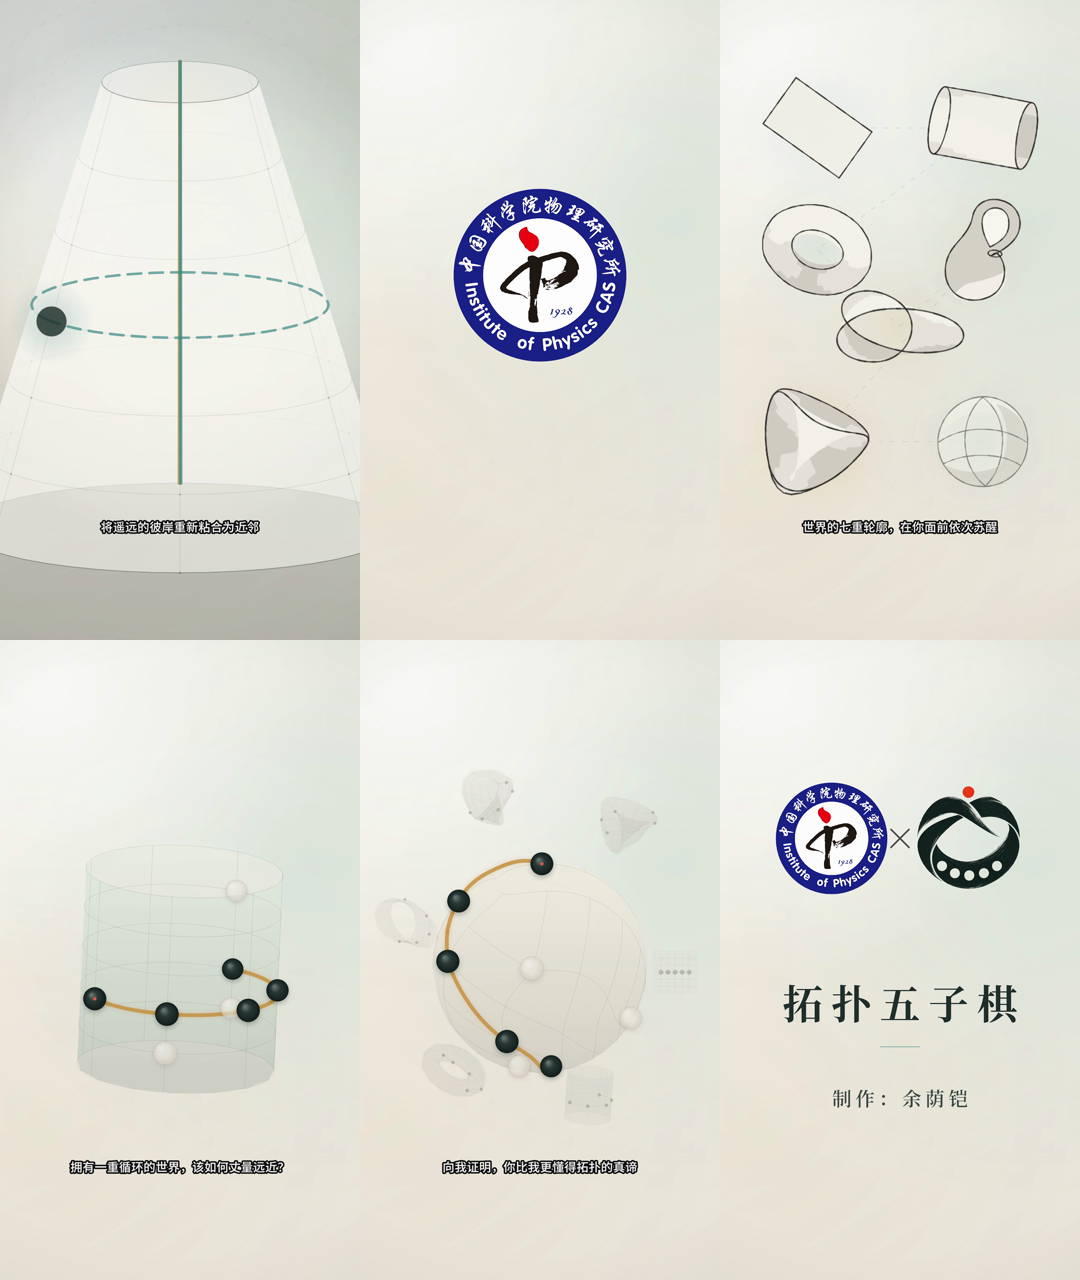
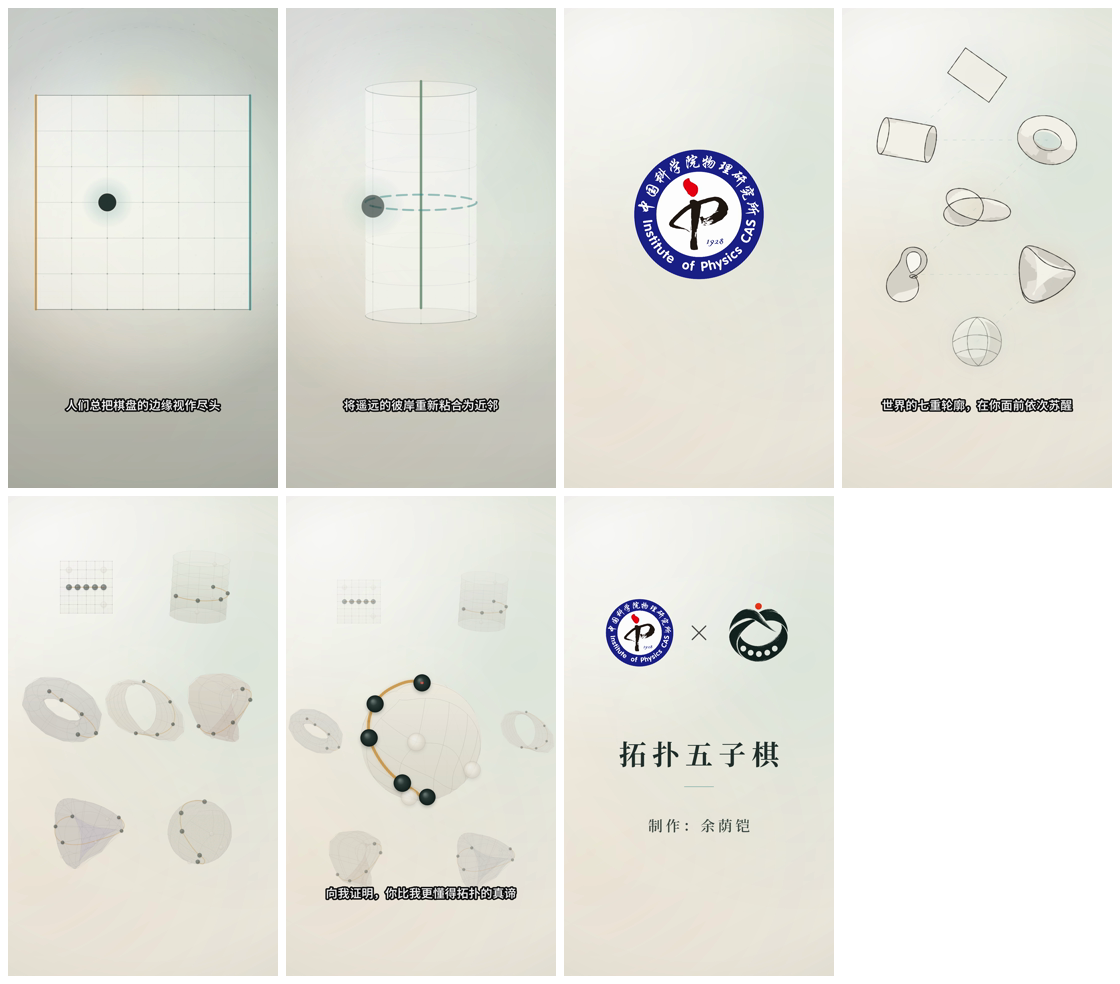
fix: refine portrait PV layouts and add covers

diff --git a/video/chapter-teaser/src/compositor.js b/video/chapter-teaser/src/compositor.js
@@ -953,6 +953,28 @@
   }
 
   function introBoardPoint(u, v, fold, width, height, cameraPush) {
+    if (height > width) {
+      // Portrait uses a physically legible construction: an exact square grid in
+      // the parameter plane and a constant-radius cylinder after identification.
+      // Orthographic projection keeps the cylinder walls parallel instead of
+      // accidentally turning the surface into a frustum.
+      var portraitSpan = width * mix(0.78, 0.84, cameraPush);
+      var portraitCenterX = width * 0.5;
+      var portraitCenterY = height * (height / width > 1.55 ? 0.405 : 0.42);
+      var flatX = (u - 0.5) * portraitSpan;
+      var flatY = (v - 0.5) * portraitSpan;
+      var portraitTheta = (u - 0.5) * TAU;
+      var cylinderRadius = portraitSpan * 0.245;
+      var cylinderX = Math.sin(portraitTheta) * cylinderRadius;
+      var cylinderY = flatY + Math.cos(portraitTheta) * cylinderRadius * 0.14;
+      return {
+        x: portraitCenterX + mix(flatX, cylinderX, fold),
+        y: portraitCenterY + mix(flatY, cylinderY, fold),
+        depth: Math.cos(portraitTheta) * fold,
+        u: u,
+        v: v
+      };
+    }
     var horizonWidth = width * 0.48;
     var foregroundWidth = width * 1.34;
     var rowWidth = mix(horizonWidth, foregroundWidth, v);
@@ -1578,8 +1600,8 @@
     var height = composition.height;
     var tall = height / width > 1.55;
     var positions = tall
-      ? [[0.27, 0.20], [0.73, 0.20], [0.27, 0.39], [0.50, 0.51], [0.73, 0.39], [0.27, 0.69], [0.73, 0.69]]
-      : [[0.25, 0.19], [0.75, 0.19], [0.25, 0.43], [0.50, 0.53], [0.75, 0.43], [0.25, 0.76], [0.75, 0.76]];
+      ? [[0.50, 0.14], [0.24, 0.275], [0.76, 0.275], [0.50, 0.415], [0.24, 0.555], [0.76, 0.555], [0.50, 0.695]]
+      : [[0.50, 0.12], [0.24, 0.285], [0.76, 0.285], [0.50, 0.46], [0.24, 0.635], [0.76, 0.635], [0.50, 0.81]];
     var progress = frameInfo.progress;
     var lineReveal = smootherstep(0.03, 0.76, progress);
     ctx.save();
@@ -1605,7 +1627,8 @@
       var alpha = arrival * fade;
       var centerX = width * positions[index][0];
       var centerY = height * positions[index][1];
-      var size = width * (index === 3 ? 0.44 : 0.38) * mix(0.72, 1, arrival) * (1 + ignition * 0.055);
+      var size = width * (index === 3 ? (tall ? 0.31 : 0.29) : (tall ? 0.275 : 0.255))
+        * mix(0.72, 1, arrival) * (1 + ignition * 0.055);
       var illustration = composition.topologyIllustrations[model.chapter.id];
       ctx.save();
       var aura = ctx.createRadialGradient(centerX, centerY, 0, centerX, centerY, size * 0.64);
@@ -1628,9 +1651,9 @@
     var height = composition.height;
     var tall = height / width > 1.55;
     var positions = tall
-      ? [[0.27, 0.22], [0.73, 0.22], [0.27, 0.43], [0.73, 0.43], [0.27, 0.65], [0.73, 0.65], [0.50, 0.53]]
-      : [[0.25, 0.19], [0.75, 0.19], [0.25, 0.46], [0.75, 0.46], [0.25, 0.74], [0.75, 0.74], [0.50, 0.58]];
-    var baseSize = width * (tall ? 0.49 : 0.44);
+      ? [[0.29, 0.19], [0.71, 0.19], [0.20, 0.445], [0.50, 0.445], [0.80, 0.445], [0.29, 0.70], [0.71, 0.70]]
+      : [[0.29, 0.17], [0.71, 0.17], [0.20, 0.47], [0.50, 0.47], [0.80, 0.47], [0.29, 0.77], [0.71, 0.77]];
+    var baseSize = width * (tall ? 0.41 : 0.39);
     composition.chapters.forEach(function drawWorld(model, index) {
       var arrival = smootherstep(index * 0.075, index * 0.075 + 0.22, frameInfo.progress);
       var fade = 1 - smoothstep(0.88, 1, frameInfo.progress);
@@ -1650,17 +1673,30 @@
       height: width * (tall ? 1.10 : 1.00),
       portrait: true
     };
-    var orientation = makeOrientation(sphere, frameInfo.frameIndex, frameInfo.progress, mix(1.16, 0.86, frameInfo.progress));
+    var orientation = makeOrientation(sphere, frameInfo.frameIndex, frameInfo.progress, mix(0.94, 0.62, frameInfo.progress));
     orientation.y += frameInfo.progress * 0.42;
     var opacity = smoothstep(0.02, 0.17, frameInfo.progress) * (1 - smoothstep(0.91, 1, frameInfo.progress));
     drawSurface(ctx, sphere, viewport, 1, orientation, opacity, composition.quality, false);
     drawPath(ctx, sphere, viewport, 1, orientation, smoothstep(0.16, 0.70, frameInfo.progress), composition.palette, opacity);
     if (frameInfo.progress > 0.48) {
       var orbitOpacity = smoothstep(0.48, 0.78, frameInfo.progress) * (1 - smoothstep(0.92, 1, frameInfo.progress));
-      var orbitY = height * (tall ? 0.48 : 0.47);
+      var satellitePositions = tall
+        ? [[0.27, 0.22], [0.73, 0.22], [0.11, 0.49], [0.89, 0.49], [0.27, 0.76], [0.73, 0.76]]
+        : [[0.27, 0.20], [0.73, 0.20], [0.10, 0.49], [0.90, 0.49], [0.27, 0.78], [0.73, 0.78]];
       composition.chapters.slice(0, 6).forEach(function drawOrbiting(model, index) {
-        var angle = index / 6 * TAU + frameInfo.progress * 0.22;
-        drawMiniature(ctx, composition, model, width * 0.5 + Math.cos(angle) * width * 0.38, orbitY + Math.sin(angle) * width * 0.44, width * 0.25, frameInfo, index, orbitOpacity * 0.25);
+        var position = satellitePositions[index];
+        var satelliteSize = width * (index === 2 || index === 3 ? 0.28 : (tall ? 0.34 : 0.32));
+        drawMiniature(
+          ctx,
+          composition,
+          model,
+          width * position[0],
+          height * position[1],
+          satelliteSize,
+          frameInfo,
+          index,
+          orbitOpacity * 0.40
+        );
       });
     }
   }
@@ -1670,11 +1706,11 @@
     var height = composition.height;
     var tall = height / width > 1.55;
     var alpha = smootherstep(0.04, 0.28, frameInfo.progress);
-    var logoCenterY = height * (tall ? 0.31 : 0.28);
-    var institutionDiameter = width * (tall ? 0.31 : 0.29);
-    var gameLogoBox = width * (tall ? 0.38 : 0.35);
-    drawCircularLogo(ctx, composition.logos.institution, width * 0.31, logoCenterY, institutionDiameter, alpha);
-    drawContainedImage(ctx, composition.logos.game, width * 0.69, logoCenterY, gameLogoBox, gameLogoBox, alpha);
+    var logoCenterY = height * (tall ? 0.285 : 0.265);
+    var institutionDiameter = width * (tall ? 0.25 : 0.235);
+    var gameLogoBox = width * (tall ? 0.29 : 0.275);
+    drawCircularLogo(ctx, composition.logos.institution, width * 0.28, logoCenterY, institutionDiameter, alpha);
+    drawContainedImage(ctx, composition.logos.game, width * 0.72, logoCenterY, gameLogoBox, gameLogoBox, alpha);
     ctx.save();
     var markX = width * 0.50;
     var markRadius = width * 0.025;
@@ -1689,14 +1725,14 @@
     ctx.stroke();
     ctx.textAlign = "center";
     ctx.textBaseline = "middle";
-    ctx.font = "700 " + Math.round(width * 0.112) + "px " + FONT_FAMILY;
+    ctx.font = "700 " + Math.round(width * 0.102) + "px " + FONT_FAMILY;
     ctx.fillStyle = rgba(GAME_PALETTE.ink, alpha);
-    drawTrackedText(ctx, composition.story.endCard.gameTitle, width * 0.5, height * (tall ? 0.565 : 0.57), width * 0.023);
+    drawTrackedText(ctx, composition.story.endCard.gameTitle, width * 0.5, height * (tall ? 0.535 : 0.54), width * 0.021);
     ctx.fillStyle = rgba(GAME_PALETTE.connection, alpha * 0.62);
-    ctx.fillRect(width * 0.5 - width * 0.055, height * (tall ? 0.635 : 0.65), width * 0.11, Math.max(2, width * 0.0022));
+    ctx.fillRect(width * 0.5 - width * 0.055, height * (tall ? 0.605 : 0.62), width * 0.11, Math.max(2, width * 0.0022));
     ctx.font = "600 " + Math.round(width * 0.054) + "px " + FONT_FAMILY;
     ctx.fillStyle = rgba(GAME_PALETTE.ink, alpha * 0.88);
-    drawTrackedText(ctx, composition.story.endCard.producer, width * 0.5, height * (tall ? 0.715 : 0.75), width * 0.011);
+    drawTrackedText(ctx, composition.story.endCard.producer, width * 0.5, height * (tall ? 0.685 : 0.71), width * 0.011);
     ctx.restore();
   }
 

diff --git a/tests/chapter-teaser-visual.test.js b/tests/chapter-teaser-visual.test.js
@@ -251,6 +251,27 @@ test("the opening trajectory and stone remain fully visible on their shared para
   assert.match(fillBody, /patchIsFront !== front/);
 });
 
+test("portrait opening preserves square cells and closes into a constant-radius cylinder", () => {
+  const point = Compositor.internals.introBoardPoint;
+  const width = 1080;
+  const height = 1920;
+  const flatOrigin = point(0, 0, 0, width, height, 0.5);
+  const flatRight = point(1 / 6, 0, 0, width, height, 0.5);
+  const flatDown = point(0, 1 / 6, 0, width, height, 0.5);
+  assert.ok(Math.abs((flatRight.x - flatOrigin.x) - (flatDown.y - flatOrigin.y)) < 1e-8);
+
+  const seamStart = point(0, 0.5, 1, width, height, 1);
+  const seamEnd = point(1, 0.5, 1, width, height, 1);
+  assert.ok(Math.abs(seamStart.x - seamEnd.x) < 1e-8);
+  assert.ok(Math.abs(seamStart.y - seamEnd.y) < 1e-8);
+
+  const topLeft = point(0.25, 0, 1, width, height, 1);
+  const topRight = point(0.75, 0, 1, width, height, 1);
+  const bottomLeft = point(0.25, 1, 1, width, height, 1);
+  const bottomRight = point(0.75, 1, 1, width, height, 1);
+  assert.ok(Math.abs(Math.abs(topRight.x - topLeft.x) - Math.abs(bottomRight.x - bottomLeft.x)) < 1e-8);
+});
+
 test("shared stones safely skip the subpixel entrance state used by full-frame playback", () => {
   const canvas = createCanvas(64, 64);
   const context = canvas.getContext("2d", { alpha: false });
@@ -431,6 +452,7 @@ test("portrait social exports render native portrait scenes from the shared game
   assert.match(source, /app\/assets\/topology\.js/);
   assert.match(source, /subtitles=filename=/);
   assert.match(source, /layout: "native portrait scene composition"/);
+  assert.match(source, /subtitleFontSize: 68/);
   assert.doesNotMatch(source, /cleanVideo|sourceVideo|force_original_aspect_ratio|gblur|overlay=/);
 
   const compositorSource = fs.readFileSync(path.join(PV_ROOT, "src", "compositor.js"), "utf8");
@@ -438,6 +460,24 @@ test("portrait social exports render native portrait scenes from the shared game
   assert.match(compositorSource, /function drawPortraitChapterScene/);
   assert.match(compositorSource, /function drawPortraitIntroAwakening/);
   assert.match(compositorSource, /function drawPortraitEndCard/);
+});
+
+test("cover exports keep exact publishing copy and three requested safe aspect ratios", () => {
+  const copy = JSON.parse(fs.readFileSync(path.join(PV_ROOT, "publishing-copy.json"), "utf8"));
+  assert.equal(copy.title, "《拓扑五子棋》章节预告PV-「足迹回环」");
+  assert.deepEqual(copy.descriptionLines, [
+    "人们总把棋盘的边缘视作尽头。",
+    "可那些消失在边界上的道路并未中断。",
+    "僭越棋盘之人，循着隐藏的连接前行吧。",
+    "世界的七重轮廓，在你面前依次苏醒……",
+    "【Prologue.方庭】-【I.回廊】-【II.环游】",
+    "【III.扭带】-【IV.瓶界】-【V.双生】-【VI.归圆】"
+  ]);
+  const source = fs.readFileSync(path.join(PV_ROOT, "scripts", "render-covers.mjs"), "utf8");
+  assert.match(source, /id: "4x3"[\s\S]*width: 1600, height: 1200/);
+  assert.match(source, /id: "16x9"[\s\S]*width: 1920, height: 1080/);
+  assert.match(source, /id: "3x4"[\s\S]*width: 1080, height: 1440/);
+  assert.match(source, /large title only; no small cover copy/);
 });
 
 test("native portrait compositions render directly at both platform aspect ratios", () => {

diff --git a/docs/design/qa.md b/docs/design/qa.md
@@ -67,6 +67,9 @@
 | 章节预告 PV「七界足迹」最终 4K ProRes 母版抽帧 | [`artifacts/qa-chapter-teaser-pv-master-4k-final-contact-sheet.png`](../../artifacts/qa-chapter-teaser-pv-master-4k-final-contact-sheet.png) |
 | 章节预告 PV「七界足迹」抖音原生 9:16 构图 | [`artifacts/qa-chapter-teaser-pv-douyin-9x16-contact-sheet.png`](../../artifacts/qa-chapter-teaser-pv-douyin-9x16-contact-sheet.png) |
 | 章节预告 PV「七界足迹」小红书原生 3:4 构图 | [`artifacts/qa-chapter-teaser-pv-xiaohongshu-3x4-contact-sheet.png`](../../artifacts/qa-chapter-teaser-pv-xiaohongshu-3x4-contact-sheet.png) |
+| 章节预告 PV「足迹回环」4:3 封面 | [`artifacts/qa-chapter-teaser-pv-cover-4x3.png`](../../artifacts/qa-chapter-teaser-pv-cover-4x3.png) |
+| 章节预告 PV「足迹回环」16:9 封面 | [`artifacts/qa-chapter-teaser-pv-cover-16x9.png`](../../artifacts/qa-chapter-teaser-pv-cover-16x9.png) |
+| 章节预告 PV「足迹回环」3:4 封面 | [`artifacts/qa-chapter-teaser-pv-cover-3x4.png`](../../artifacts/qa-chapter-teaser-pv-cover-3x4.png) |
 
 较早截图只用于回归和问题溯源，不自动成为新设计的视觉真相。出现冲突时，以最新已确认实现、视觉设计语言和同状态实机/预览证据为准。
 
@@ -92,9 +95,11 @@
 
[1 lines of base64/hex data omitted]
 
-同日为 1080 × 1920 抖音版与 1080 × 1440 小红书版建立原生竖屏合成路径。两版不把横屏成片作为视觉输入，不使用横屏裁切、模糊补边、上下留白或画中画；共享合成器直接在目标竖屏画布上重绘片头透视棋盘、七种手绘拓扑苏醒、章节牌、实机棋盘到参数曲面的形变、七界群像、终章和双 Logo 片尾。9:16 采用更舒展的纵向星图与中上部主舞台，3:4 收紧段落间距并扩大有效画面占比；两版均保留金色五连、隐藏完成态边界缝线，并为无衬线字幕分别设置平台安全区。原始竖屏关键帧目录各保留 13 个相同时间点的布局状态；仓库联系表则直接从最终编码文件抽取 6 个代表状态，覆盖字幕、Logo 留白、流形苏醒、章节曲面、终章和片尾。
+同日为 1080 × 1920 抖音版与 1080 × 1440 小红书版建立原生竖屏合成路径。两版不把横屏成片作为视觉输入，不使用横屏裁切、模糊补边、上下留白或画中画；共享合成器直接在目标竖屏画布上重绘片头棋盘、七种手绘拓扑苏醒、章节牌、实机棋盘到参数曲面的形变、七界群像、终章和双 Logo 片尾。片头平面阶段使用严格等距参数网格，确保格子为正方形；粘合阶段使用固定半径、正交投影圆柱，避免长方形 / 梯形格和圆台错觉。七图鉴采用 1-2-1-2-1 错落构图，七流形群像采用 2-3-2 构图；终章改为缩小中心球并把六个环绕流形固定在上二、左右各一、下二六点，内侧轮廓之间保留可见负空间，不再重叠。双 Logo 缩小并拉开间距。两版字幕统一为 68 px 无衬线体、5.8 px 纯黑描边，并分别设置平台安全区。原始竖屏关键帧目录各保留 14 个相同时间点的布局状态；仓库联系表直接从最终编码文件抽取 7 个代表状态，覆盖正方形棋盘、圆柱粘合、字幕、机构 Logo、流形苏醒、七流形群像、无重叠终章和片尾。
 
[2 lines of base64/hex data omitted]
+
+同日生成 1600 × 1200（4:3）、1920 × 1080（16:9）和 1080 × 1440（3:4）三版确定性封面。三版复用暖纸背景、手绘球面网格、金色五连和青金边界语言，只保留大标题“拓扑五子棋”与“足迹回环”，不放小字，并把标题、棋子和主体图形限制在约 8% 内安全区。发布标题与简介按用户定稿逐字记录在 `video/chapter-teaser/publishing-copy.json`，交付目录同时生成可直接复制的 `publishing-copy.txt` 与封面校验清单。
 
 ## 新证据记录模板
 

diff --git a/video/chapter-teaser/README.md b/video/chapter-teaser/README.md
@@ -91,7 +91,17 @@ npm run pv:social:douyin -- --overwrite
 npm run pv:social:xiaohongshu -- --overwrite
 ```
 
-两个交付目录都包含成片、平台专用 ASS、内嵌字幕字体、SHA-256 校验和 `delivery-manifest.json`。平台字幕继续使用无衬线 `Topo Sans PV` 与纯黑描边，时间点完全继承已确认的 60 fps 整数帧时轴。
+两个交付目录都包含成片、平台专用 ASS、内嵌字幕字体、SHA-256 校验和 `delivery-manifest.json`。平台字幕使用 68 px 无衬线 `Topo Sans PV` 与 5.8 px 纯黑描边，允许长句自然换为两行，时间点完全继承已确认的 60 fps 整数帧时轴。片头竖屏参数面在闭合前保持等距正方形网格，闭合后使用恒定半径圆柱与正交投影；七图鉴采用单—双—单—双—单纵向节奏，七流形群像采用 2—3—2 编队，终章中心球与六个环绕流形分别留出独立空间，双 Logo 使用更宽松的联名锁定关系。
+
+## 投稿封面与文案
+
+投稿标题和简介的唯一来源为 [`publishing-copy.json`](publishing-copy.json)，导出时不会改写标点、章节名或顺序。三版封面复用暖纸背景、手绘球面与金色五连，只保留“拓扑五子棋”和“足迹回环”两级大标题，不加入小字或章节清单：
+
+```powershell
+npm run pv:covers
+```
+
+输出位于 `.tmp/chapter-teaser/covers/`：4:3 为 1600 × 1200，16:9 为 1920 × 1080，3:4 为 1080 × 1440。全部标题与球面主视觉均保留在内侧 8% 安全区；同目录保存 `publishing-copy.txt`、尺寸、哈希、来源资产和安全区说明。
 
 渲染、预览和验证都不会自动提交、更不会合并或更新任何长期分支。用户确认前，本任务始终留在独立 worktree 的 `codex/chapter-teaser-pv` 分支。
 
